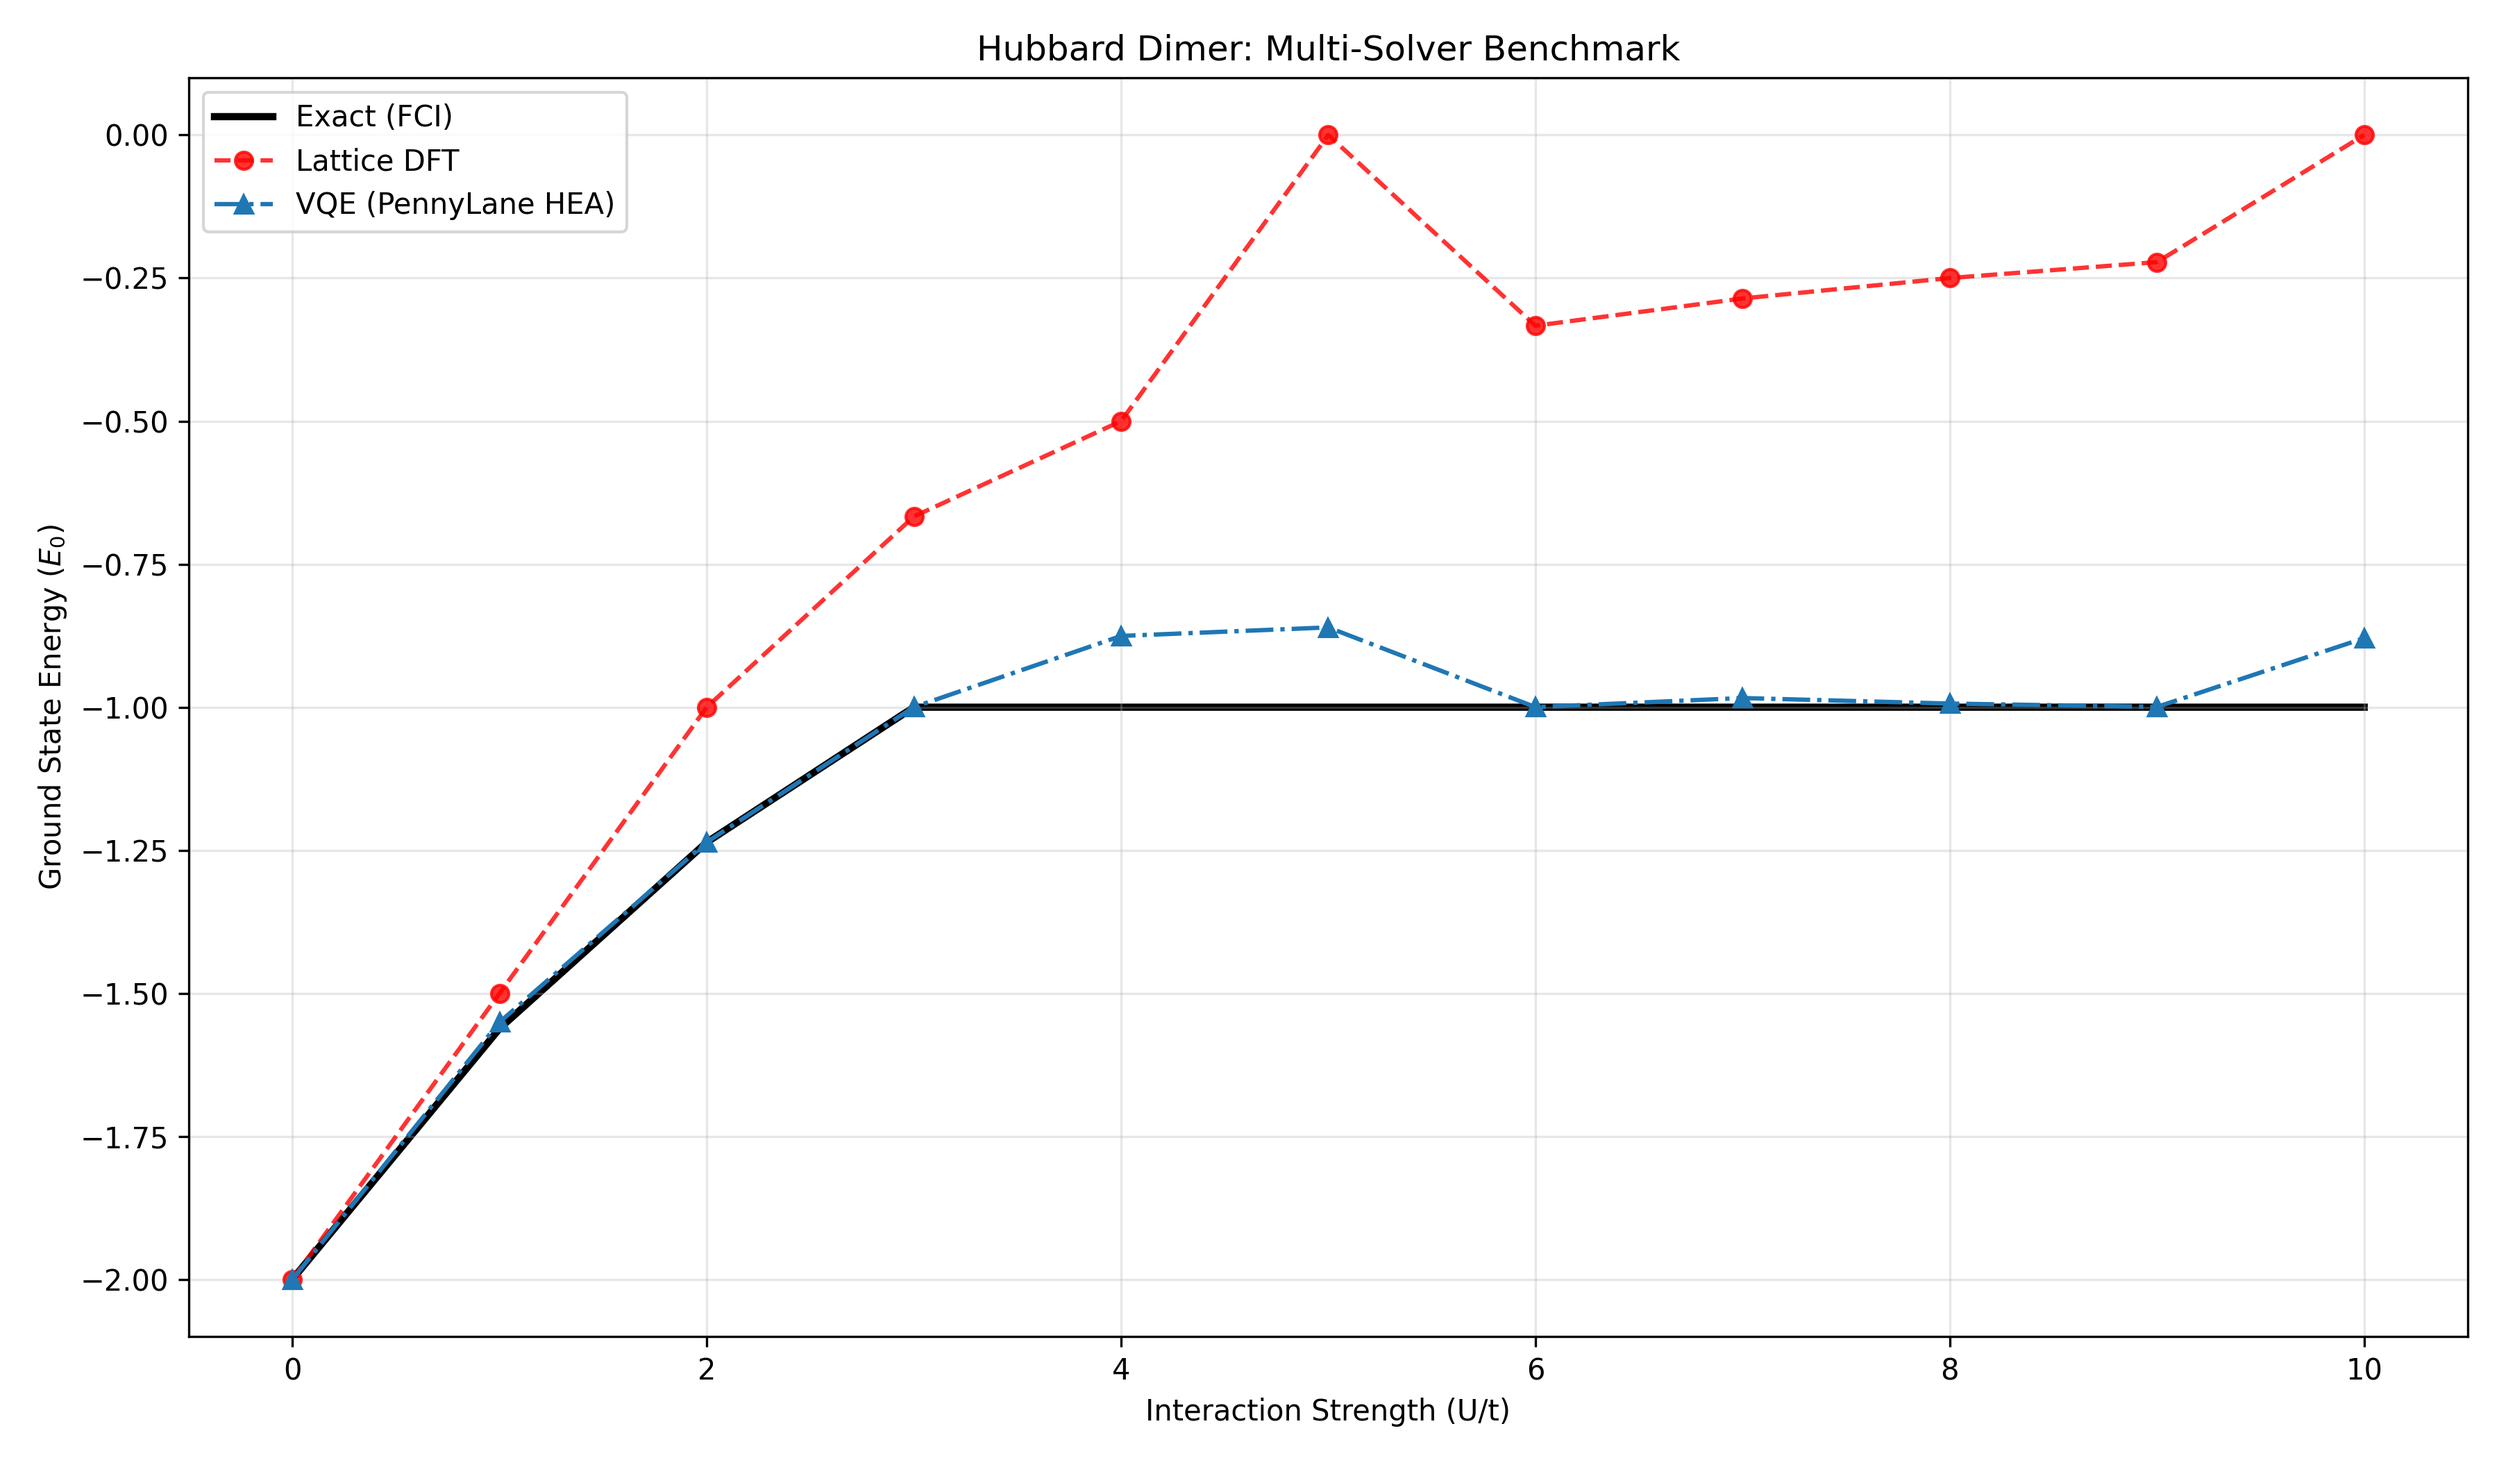
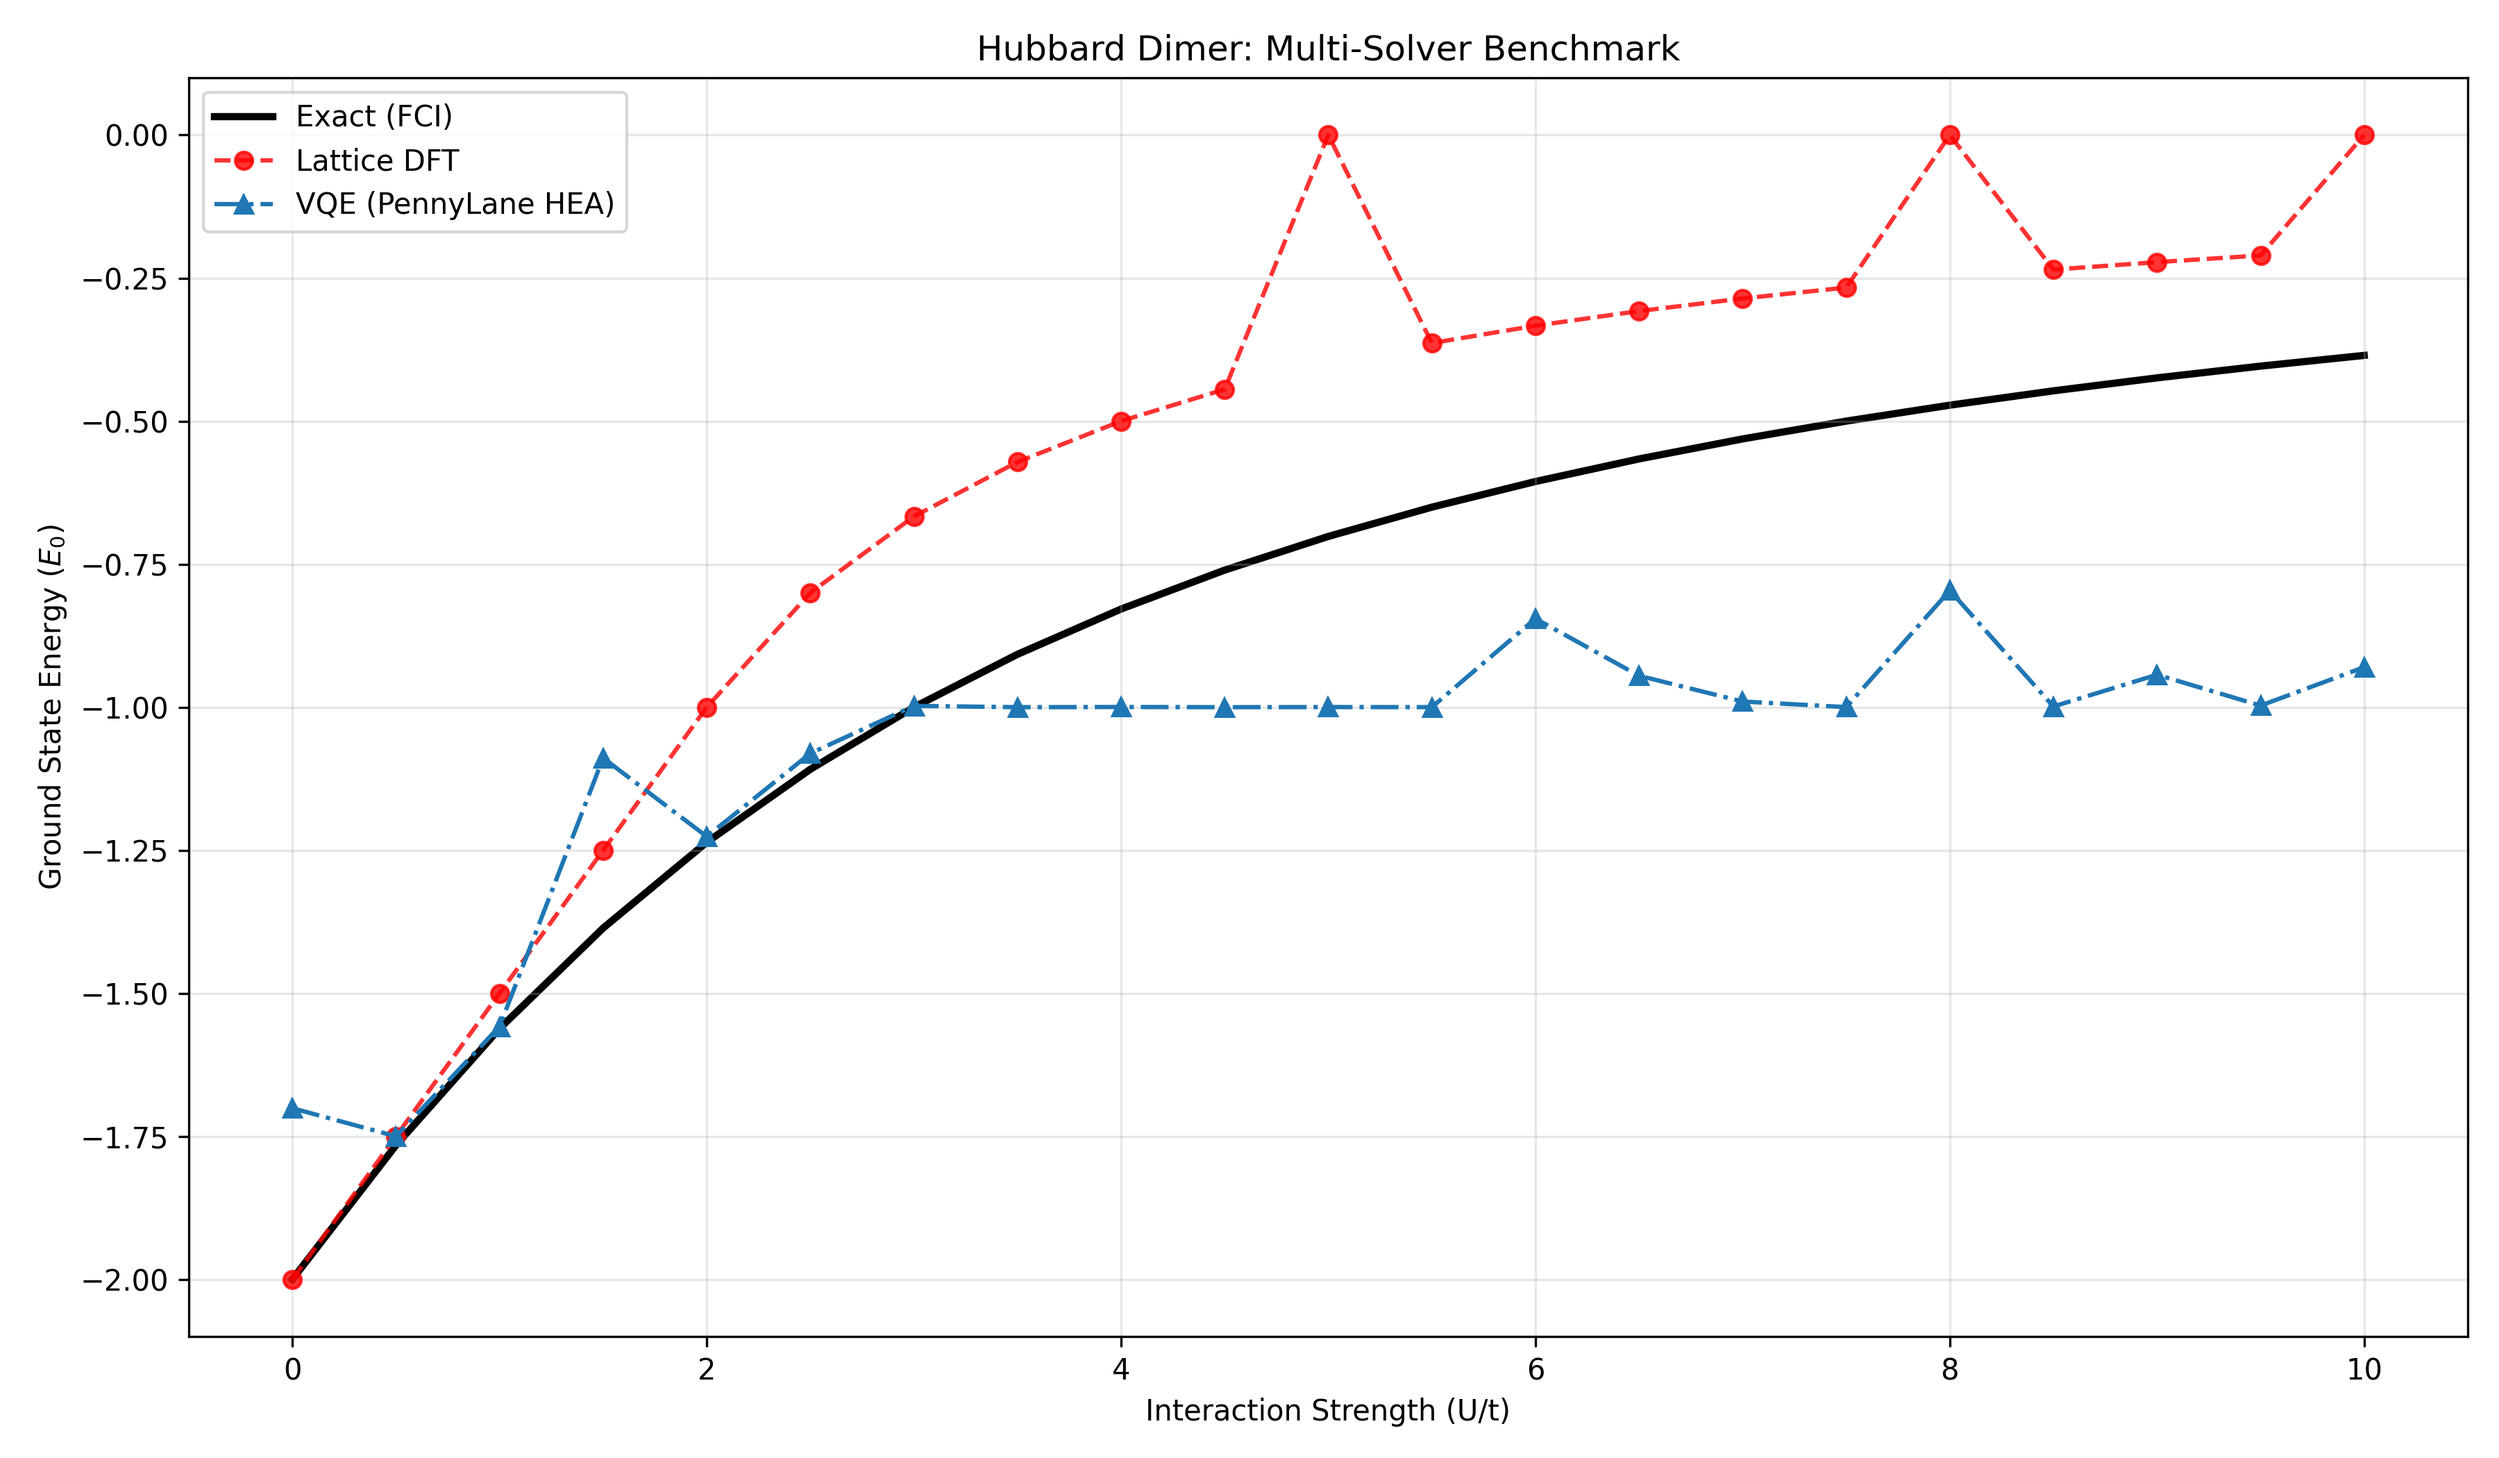
refactor(script): add validations to enforce Half Filling Regime in benchmark script

diff --git a/scripts/05_final_benchmark.py b/scripts/05_final_benchmark.py
@@ -19,15 +19,27 @@ def get_exact_fci(
     t: float,
     u: float,
 ) -> float:
-    """Calculates ground truth via Exact Diagonalization (FCI)[cite: 36, 40]."""
+    """Calculates ground truth via Exact Diagonalization (FCI) for N=2 sector."""
     h_total = model.construct_total_hamiltonian(t, u)
-    vals, _ = backend.diagonalize(h_total)
-    return float(vals[0])
+    eigenvalues, eigenvectors = backend.diagonalize(h_total)
+
+    n_op = model.construct_total_number_operator()
+    target_n = model.n_sites
+
+    for idx, en in enumerate(eigenvalues):
+        psi = backend.get_column_vector(eigenvectors, idx)
+        n_psi = backend.matmul(n_op, psi)
+        n_val = backend.inner_product(psi, n_psi).real
+
+        if np.isclose(n_val, target_n, atol=1e-2):
+            return float(en)
+
+    return float(eigenvalues[0])
 
 
 if __name__ == "__main__":
     L, t = 2, 1.0
-    u_values = np.linspace(0, 10, 11)
+    u_values = np.linspace(0, 10, 21)
     n_layers = 3
 
     np_backend = NumpyBackend()
